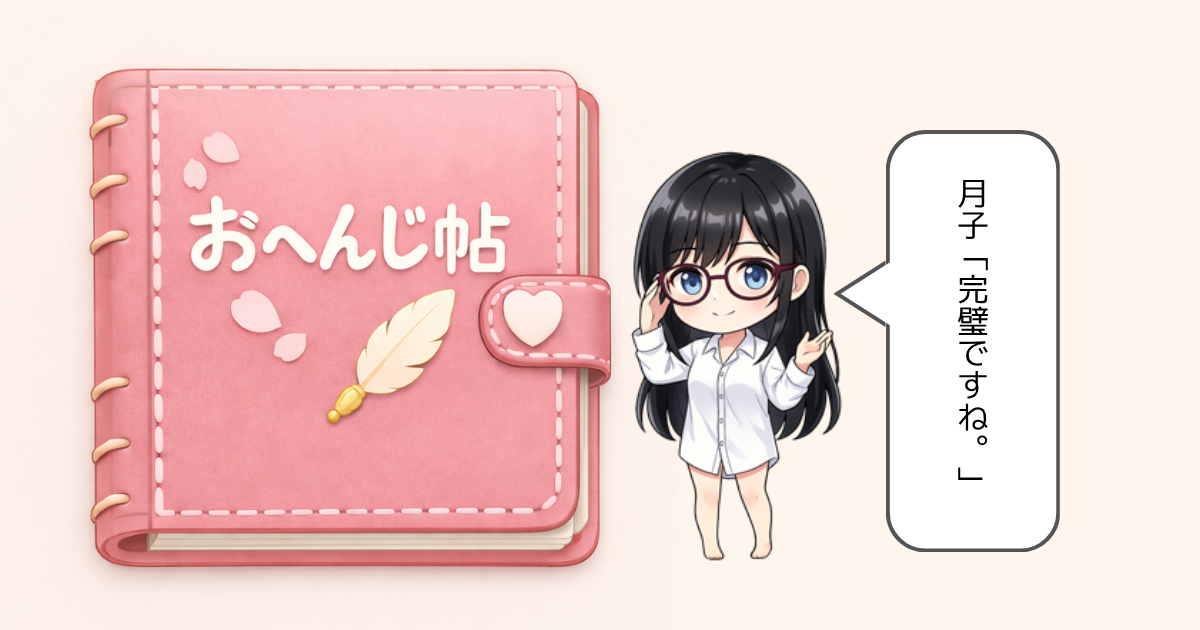
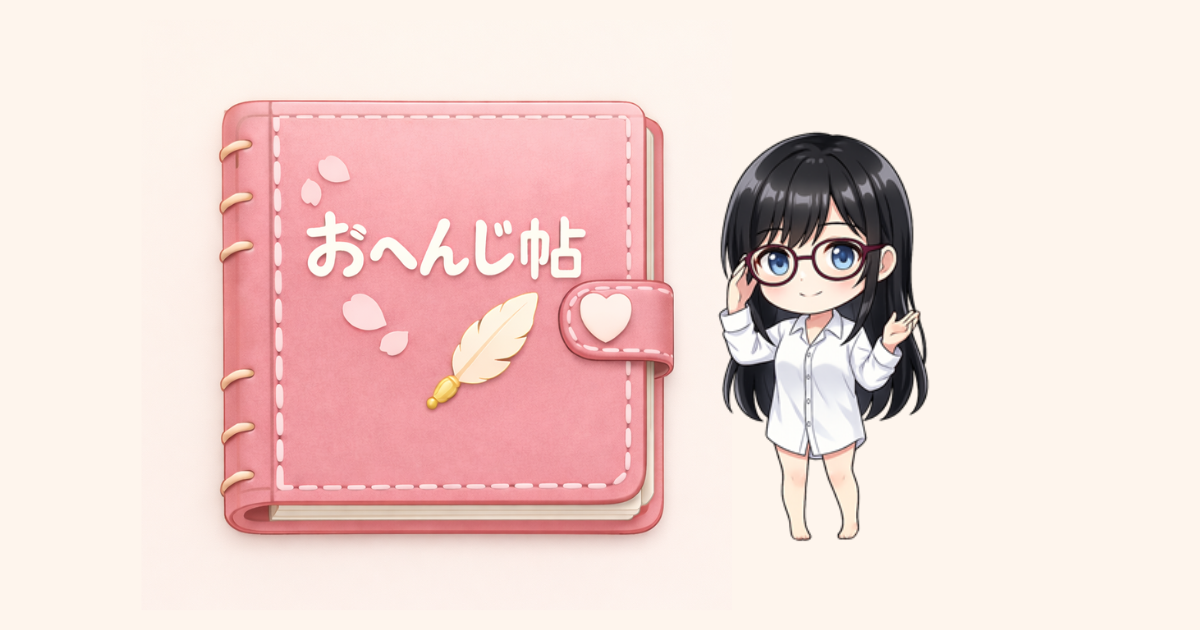
OGP画像・説明文を更新

diff --git a/docs/worker-ogp.js b/docs/worker-ogp.js
@@ -19,14 +19,14 @@ const DAY_MAP = {
 
 const DAY_NAMES = ['sun', 'mon', 'tue', 'wed', 'thu', 'fri', 'sat']
 
-const CHIBI_NAMES = {
-  sun: '日和',
-  mon: '月子',
-  tue: '陽',
-  wed: 'しずく',
-  thu: '凛華',
-  fri: 'るな',
-  sat: 'まひる',
+const CHIBI_DATA = {
+  sun: { name: '日和', line: '全部おへんじできたね。あなたなら大丈夫。' },
+  mon: { name: '月子', line: '全件返信、確認しました。完璧ですね。' },
+  tue: { name: '陽', line: 'やったー！全部おへんじできたね！' },
+  wed: { name: 'しずく', line: 'ゆっくりでいいんだよ。ちゃんと届いてるから。' },
+  thu: { name: '凛華', line: 'ふーん、全部返したんだ。まあ、悪くないけど。' },
+  fri: { name: 'るな', line: 'ね、ね！全部終わったよ！お祝いしよ！' },
+  sat: { name: 'まひる', line: '頑張ったね。あとはゆっくりしよ。' },
 }
 
 // OGPクローラーのUser-Agent判定
@@ -73,9 +73,9 @@ export default {
 
     // クローラー → OGPメタタグ付きHTMLを返す
     const ogpImageUrl = `${GITHUB_PAGES}ogp/ogp-${day}.png`
-    const chibiName = CHIBI_NAMES[day]
-    const title = id ? `${id}さんのおへんじ帖` : 'おへんじ帖'
-    const description = `今日の担当は${chibiName}。noteのコメント返信を管理するツール「おへんじ帖」`
+    const chibi = CHIBI_DATA[day]
+    const title = 'おへんじ帖'
+    const description = `今日の担当は${chibi.name}。「${chibi.line}」noteのコメント返信を管理するツール「おへんじ帖」`
 
     const html = `<!DOCTYPE html>
 <html lang="ja">
